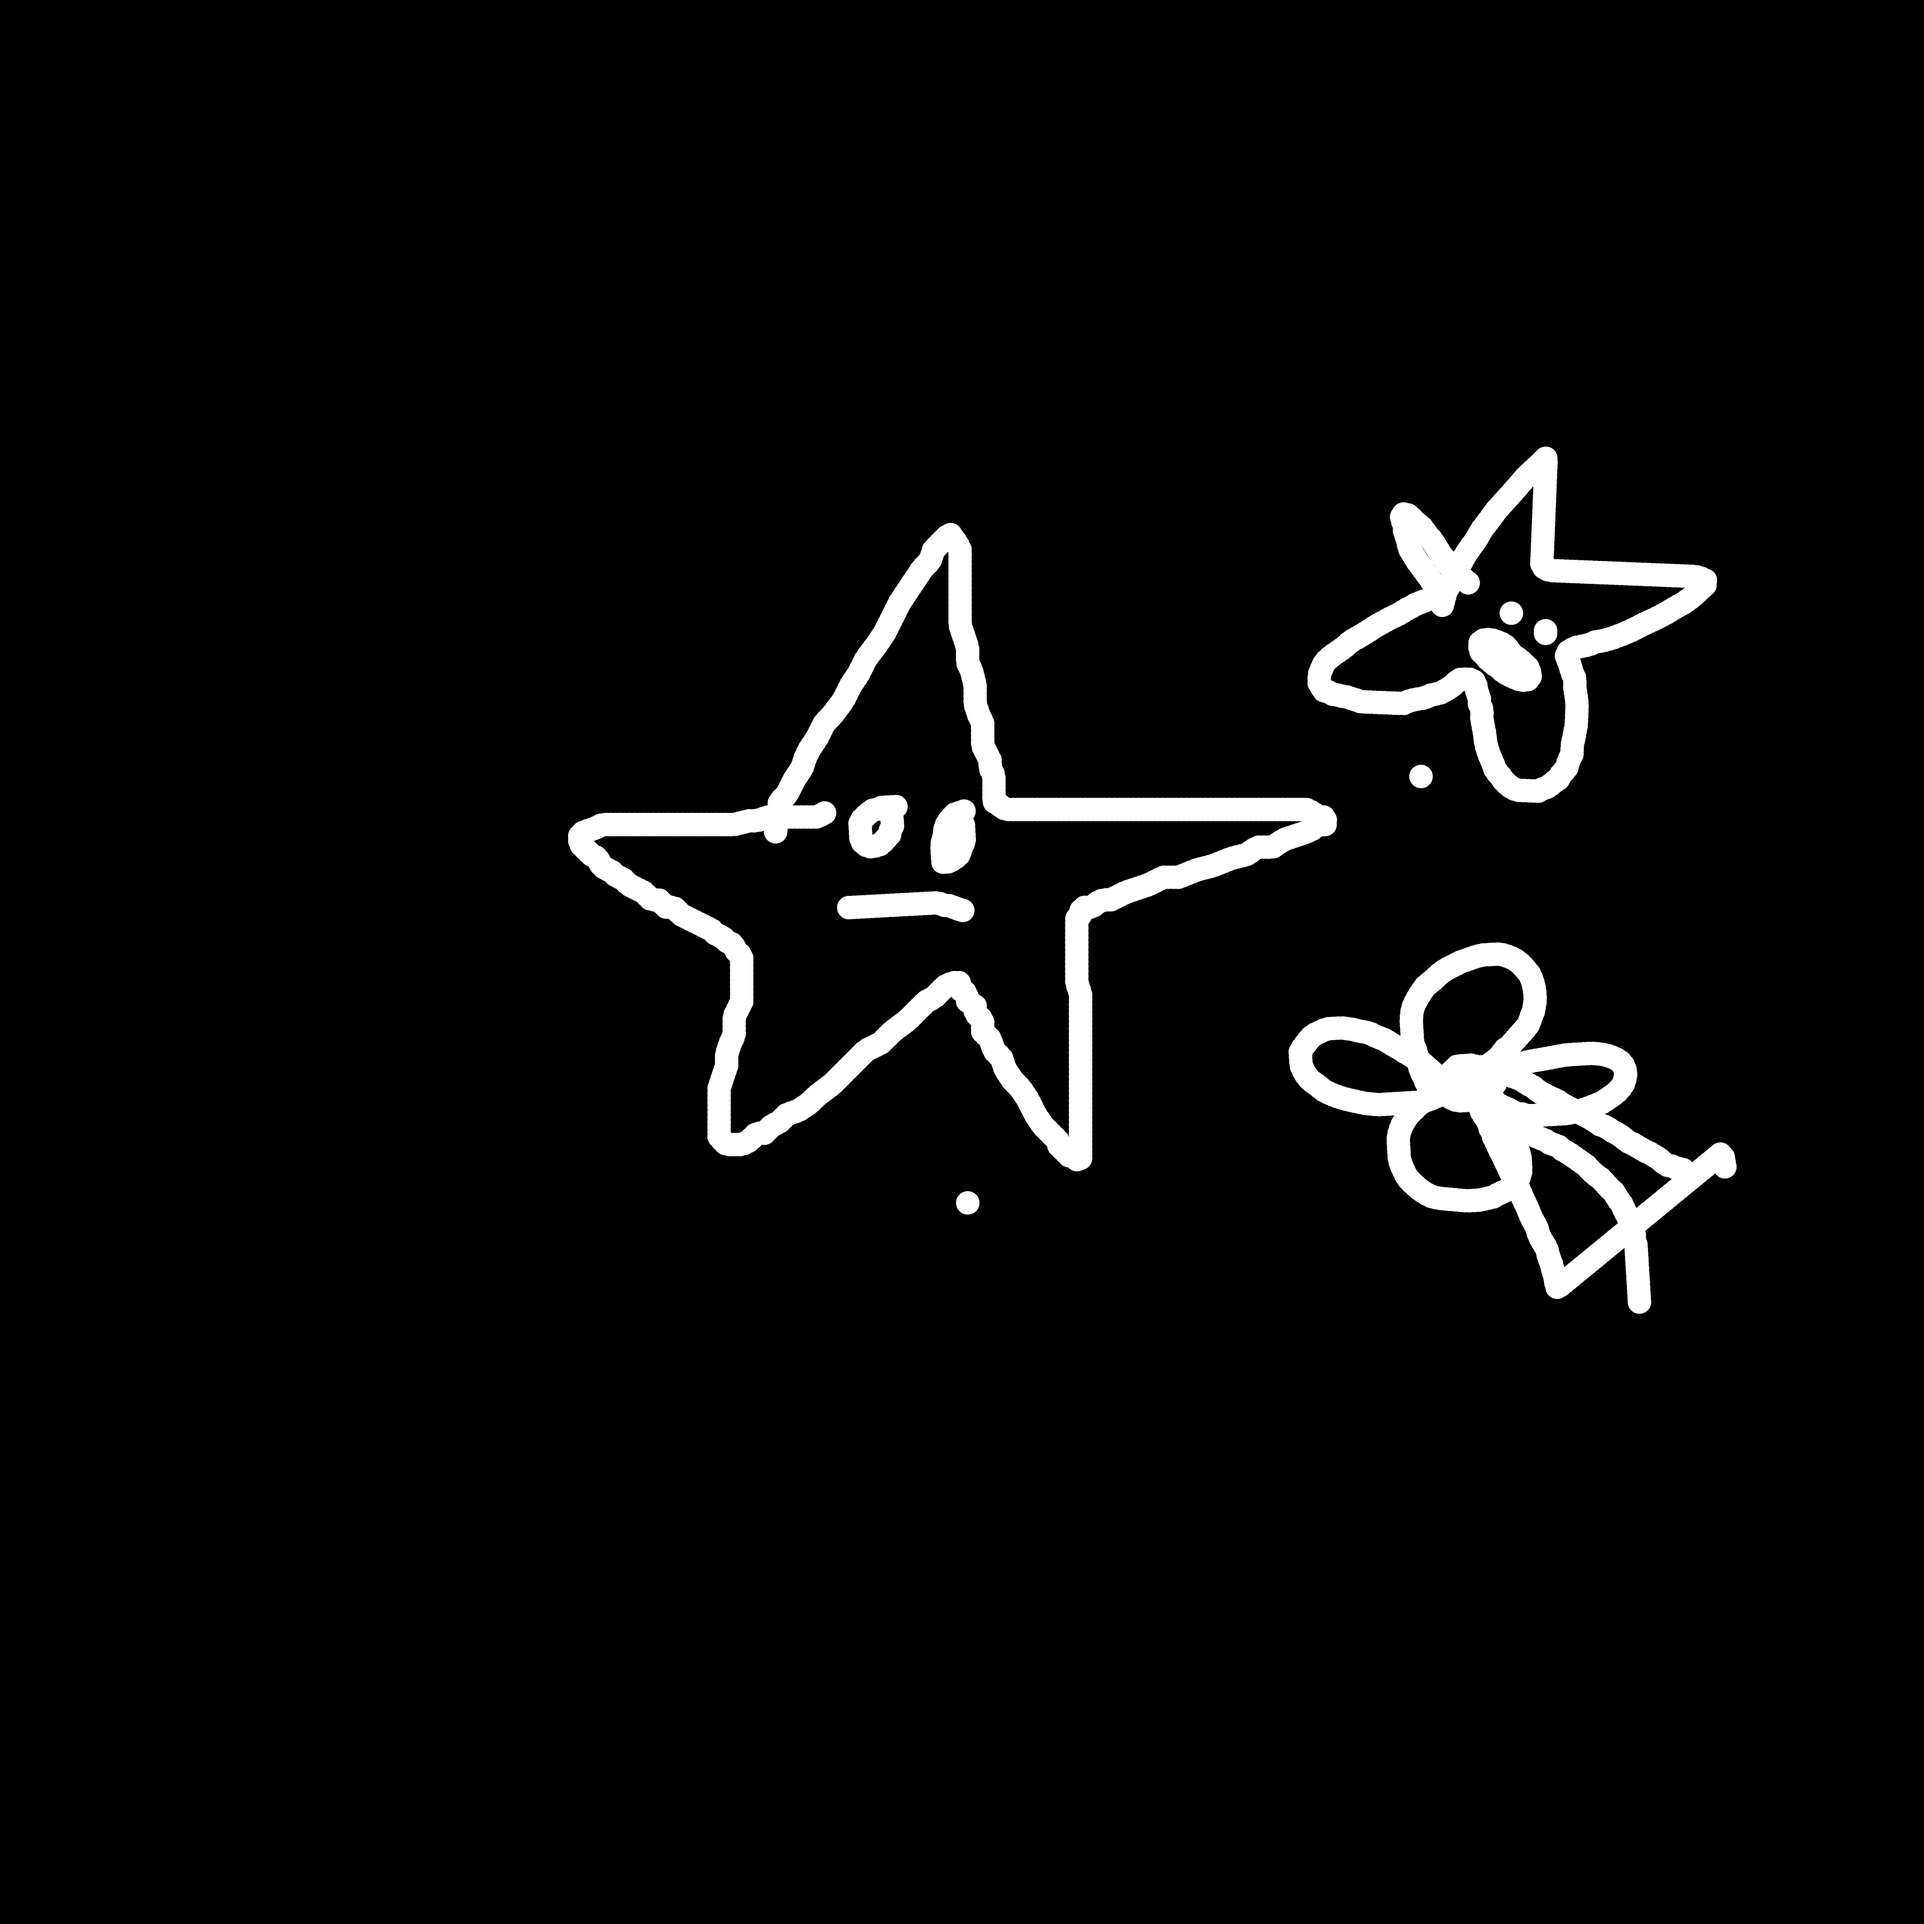
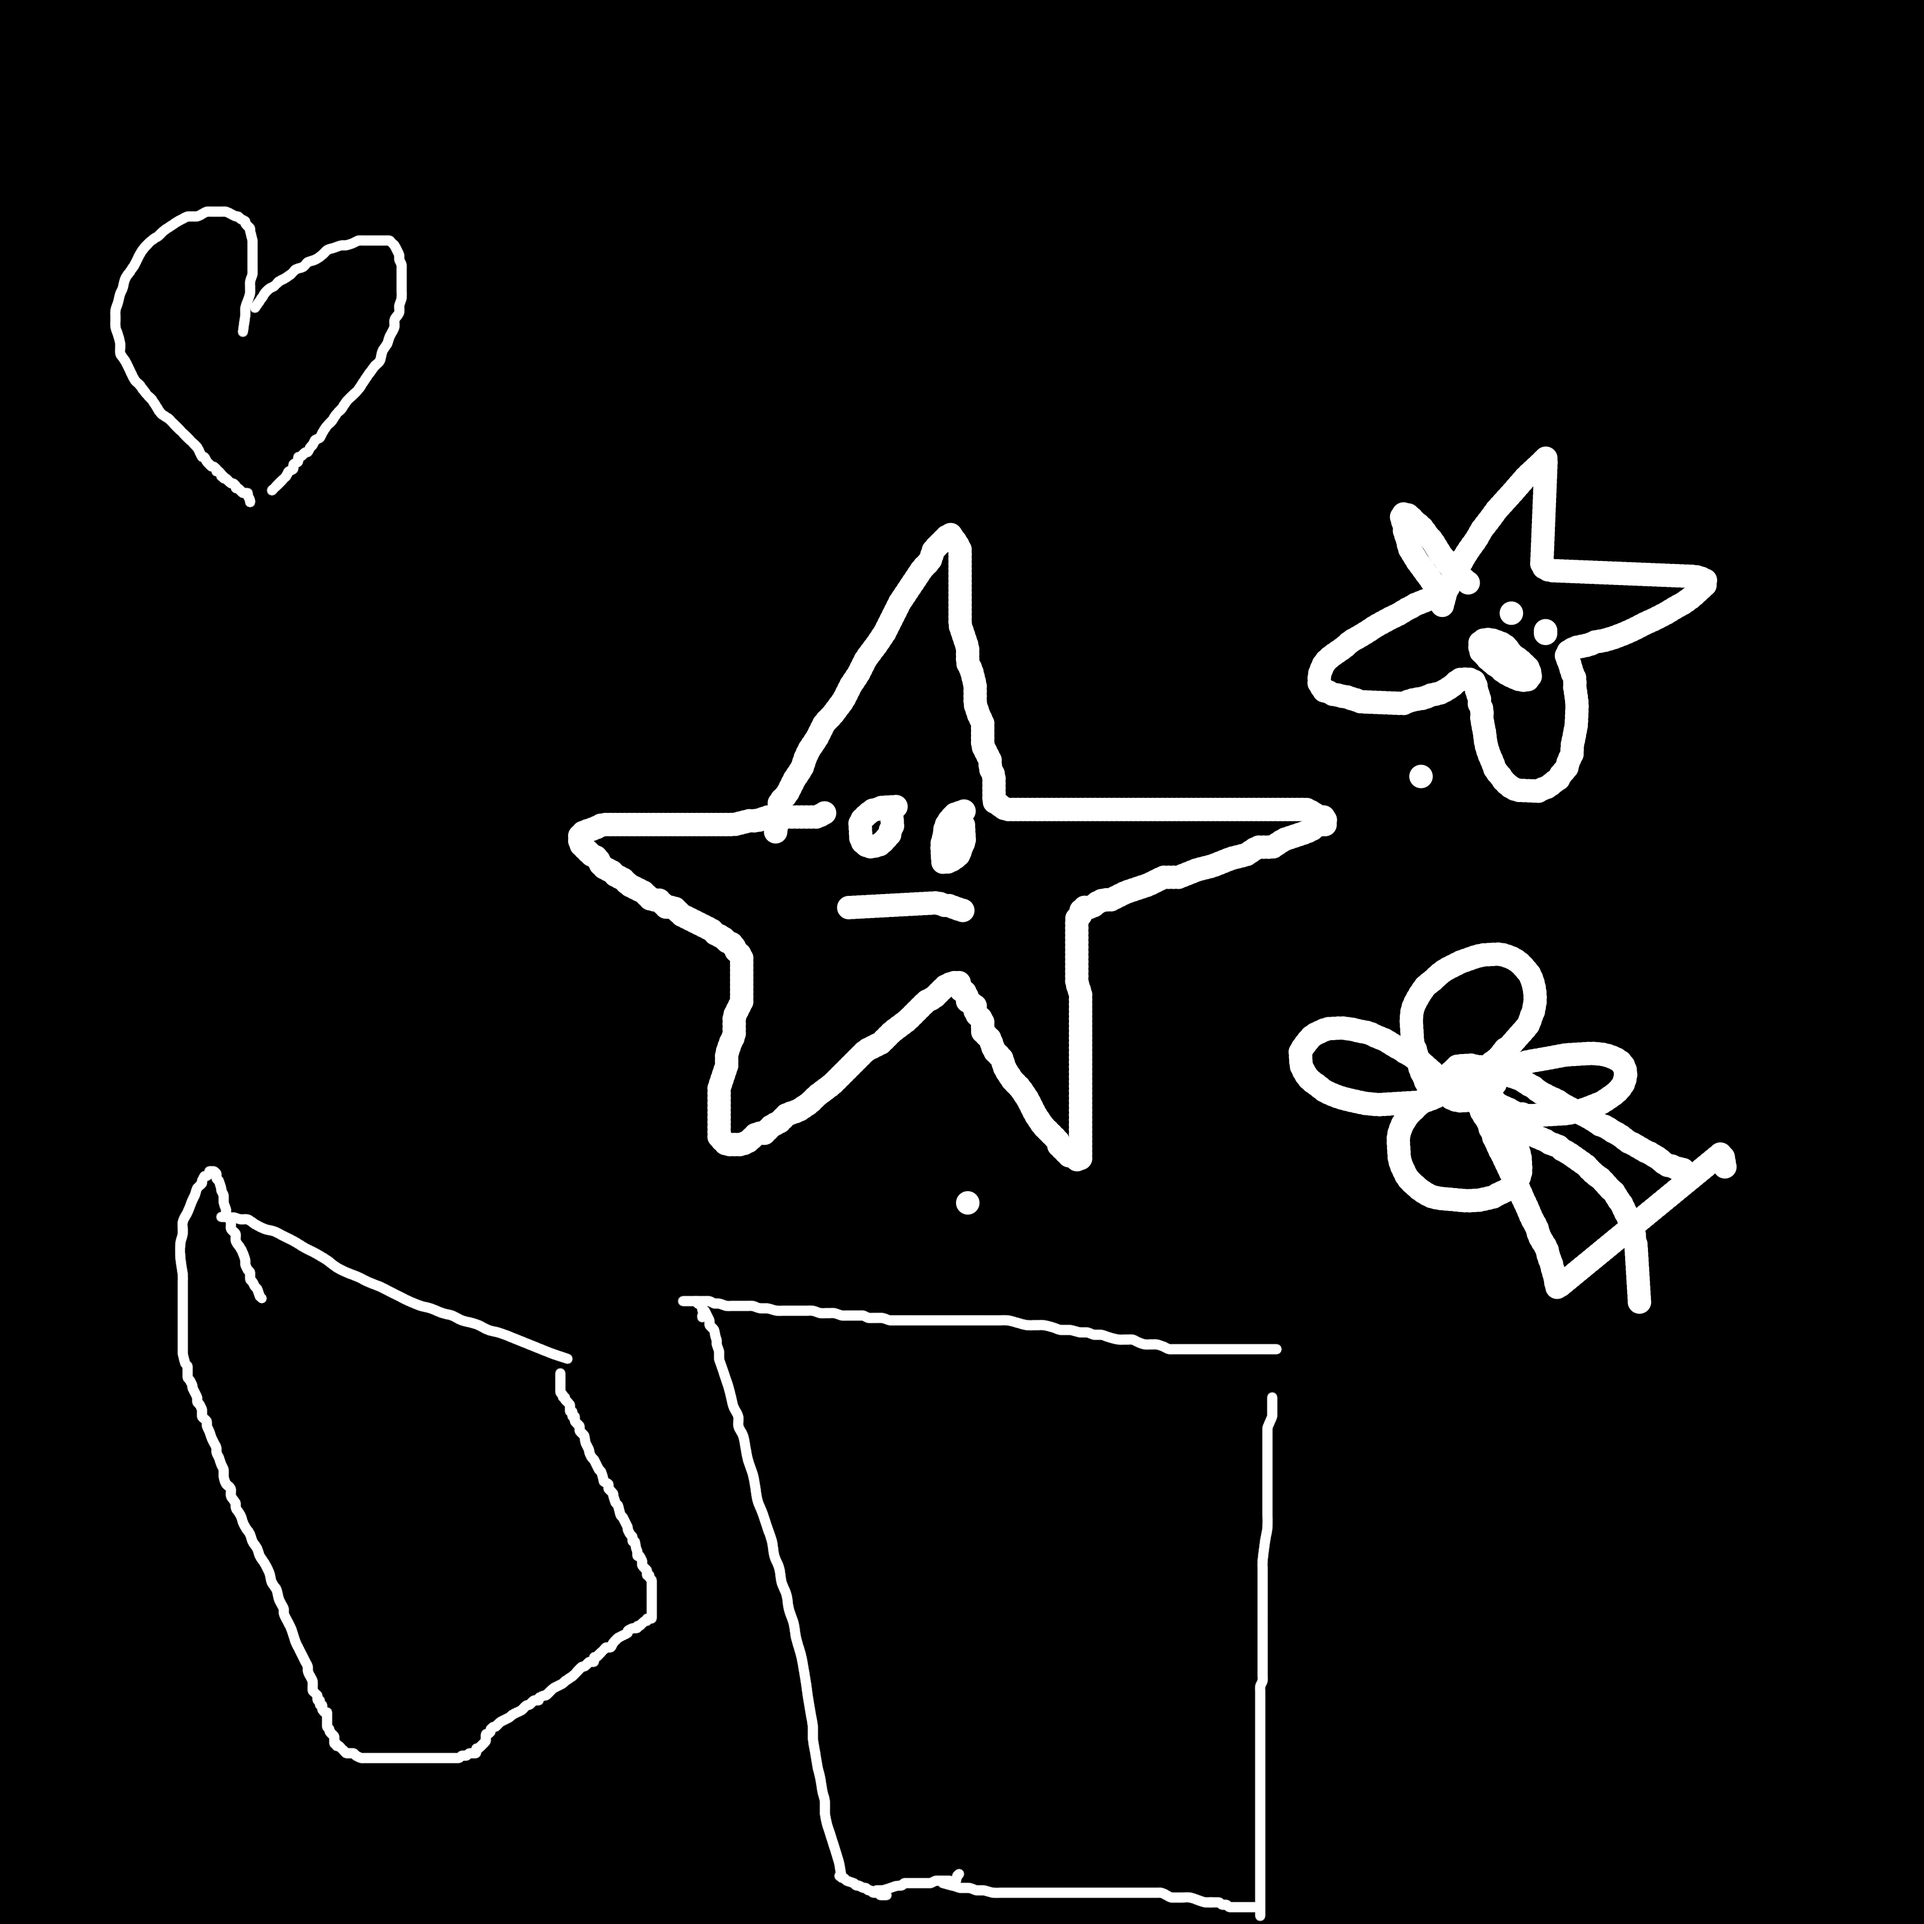
feat: rgb and grayscale works

diff --git a/src/check_colors.rs b/src/check_colors.rs
@@ -4,15 +4,18 @@ use bke_ccl::*;
 use flume::bounded;
 use std::iter;
 use image::{ImageBuffer, RgbaImage};
+use wgpu::{Buffer, util::{BufferInitDescriptor, DeviceExt}};
 
 pub struct CheckColors {
-    texture_bundle: texture::TextureUInt,
+    input_buffer: Buffer,
+    width: u32,
+    height: u32,
     device: wgpu::Device,
     queue: wgpu::Queue,
 }
 
 impl CheckColors {
-    pub async fn new(image_bytes:&[u8] ) -> anyhow::Result<CheckColors> {
+    pub async fn new(image_bytes:&[u32], width:u32, height:u32 ) -> anyhow::Result<CheckColors> {
         // The instance is a handle to our GPU
         // BackendBit::PRIMARY => Vulkan + Metal + DX12 + Browser WebGPU
         let instance = wgpu::Instance::new(&wgpu::InstanceDescriptor {
@@ -27,11 +30,16 @@ impl CheckColors {
 
         let (device, queue) = adapter.request_device(&Default::default()).await.unwrap();
 
-        let texture_bundle =
-            texture::TextureUInt::from_bytes(&device, &queue, image_bytes, "in_texture").unwrap();
+        let input_buffer = device.create_buffer_init(&BufferInitDescriptor {
+            label: Some("input"),
+            contents: bytemuck::cast_slice(&image_bytes),
+            usage: wgpu::BufferUsages::COPY_DST | wgpu::BufferUsages::STORAGE,
+        });
 
         Ok(Self {
-            texture_bundle,
+            input_buffer,
+            width,
+            height,
             device,
             queue,
         })
@@ -43,7 +51,7 @@ impl CheckColors {
             .create_command_encoder(&wgpu::CommandEncoderDescriptor {
                 label: Some("Render Encoder"),
             });
-        let ccl = CCLState::new(&self.device, &self.queue, &self.texture_bundle).unwrap();
+        let ccl = CCLState::new(&self.device, &self.queue, &self.input_buffer, self.width, self.height).unwrap();
         let output_buffer = ccl.compute(&mut encoder)?;
         self.queue.submit(iter::once(encoder.finish()));
         self.check_colors(&output_buffer).await?;
@@ -51,23 +59,10 @@ impl CheckColors {
         Ok(())
     }
 
-    fn get_num_bytes_storage(&self) -> anyhow::Result<u64> {
-        let texture_size = self.texture_bundle.texture.size();
-        let width = texture_size.width;
-        let height = texture_size.height;
-        let num_pixels = width as u64 * height as u64;
-        let num_bytes_storage = num_pixels
-            .checked_mul(4)
-            .expect("The image was too big to create a storage buffer");
-        Ok(num_bytes_storage)
-    }
-
-
     async fn check_colors(&self, output_buffer: &wgpu::Buffer ) -> anyhow::Result<()> {
-        let num_bytes_storage = self.get_num_bytes_storage().unwrap();
         let temp_buffer = self.device.create_buffer(&wgpu::BufferDescriptor {
             label: Some("temp"),
-            size: num_bytes_storage,
+            size: self.input_buffer.size(),
             usage: wgpu::BufferUsages::COPY_DST | wgpu::BufferUsages::MAP_READ,
             mapped_at_creation: false,
         });
@@ -100,15 +95,23 @@ impl CheckColors {
 
             // Now we have the data on the CPU we can do what ever we want to with it
             let output_data = bytemuck::cast_slice::<_, u32>(&output_buffer_view);
+            println!("{:?}", output_data.len());
 
             // using f64 to accomodate the bigger u32 range
-            let normalized = 255.0 / self.texture_bundle.texture.size().width as f64 / self.texture_bundle.texture.size().height as f64;
+            // 255 / (width*height) would be normalized
+            // 254 will not create any 0 values for last label
+            let normalized = 254.0 / self.width as f64 / self.height as f64;
             let mut rgba_data = Vec::with_capacity(output_data.len() * 4);
             for &label in output_data {
                 // grey scale
-                let r = (label as f64 * normalized) as u8;
-                let g = (label as f64 * normalized) as u8;
-                let b = (label as f64 * normalized) as u8;
+                let mut val = 255u8 - ((label as f64 * normalized) as u8);
+                if label == 0 {
+                    val = 0
+                }
+
+                let r = val;
+                let g = val;
+                let b = val;
                 let a = 255u8; 
 
                 rgba_data.push(r); 
@@ -116,7 +119,7 @@ impl CheckColors {
                 rgba_data.push(b);
                 rgba_data.push(a);
             }
-            let img: RgbaImage = ImageBuffer::from_raw(256, 256, rgba_data).unwrap();
+            let img: RgbaImage = ImageBuffer::from_raw(self.width, self.height, rgba_data).unwrap();
 
             // Save the image
             img.save("output.png")?;

diff --git a/src/buffer_png.rs b/src/buffer_png.rs
@@ -1,0 +1,84 @@
+// TODO output buffer ist _viel_ größer
+use std::fs::File;
+use std::io::BufReader;
+use png::{Decoder, ColorType, BitDepth};
+
+pub struct BufferBundle {
+    pub buffer: Vec<u32>,
+    pub width: u32,
+    pub height: u32,
+}
+pub fn decode(path: &str) -> BufferBundle {
+    let decoder = png::Decoder::new(BufReader::new(File::open(path).unwrap()));
+    let mut reader = decoder.read_info().unwrap();
+
+    // Allocate the output buffer.
+    let mut buffer = vec![0; reader.output_buffer_size().unwrap()];
+
+    // Read the next frame. An APNG might contain multiple frames.
+    let info = reader.next_frame(&mut buffer).unwrap();
+    let width = info.width;
+    let height = info.height;
+
+    // Grab the bytes of the image.
+    buffer.truncate(info.buffer_size());
+
+    // let bytes = &buffer[..info.buffer_size()];
+    println!("len: {:?}, width: {:?}, height: {:?}, info: {:?}", buffer.len(), info.width, info.height, info);
+
+     let buffer: Vec<u32> = match info.color_type {
+        ColorType::Rgba => {
+            println!("RGBA");
+            // Combine 4 u8s (RGBA) into a single u32 for each pixel
+            buffer.chunks_exact(4)
+                .map(|chunk| {
+                    (chunk[0] as u32) << 24 | // Red
+                    (chunk[1] as u32) << 16 | // Green
+                    (chunk[2] as u32) << 8  | // Blue
+                    (chunk[3] as u32)        // Alpha
+                })
+                .collect()
+        }
+        ColorType::Rgb => {
+            // Combine 3 u8s (RGB) into a single u32 for each pixel (0xRRGGBB)
+            println!("RGB");
+            buffer.chunks_exact(3)
+                .map(|chunk| {
+                    (chunk[0] as u32) << 16 | // Red
+                    (chunk[1] as u32) << 8  | // Green
+                    (chunk[2] as u32)        // Blue
+                })
+                .collect()
+        }
+        ColorType::Grayscale => {
+
+            if info.bit_depth == BitDepth::One {
+                let byte_width = (info.width + 7) / 8; // Each row is padded to the nearest whole byte
+                let mut unpacked_pixels = Vec::with_capacity((info.width * height) as usize);
+                // Treat each pixel (1-byte grayscale) as a 32-bit scalar (0x00G000FF)
+                for row in 0..height {
+                    let row_start = (row * byte_width) as usize;
+                    for col in 0..info.width {
+                        // Extract the bit corresponding to the current column
+                        let byte = buffer[row_start + (col / 8) as usize];
+                        let bit = 7 - (col % 8); // Bit position within the byte (MSB to LSB)
+                        let value = ((byte >> bit) & 1) as u32; // Extract the bit as 0 or 1
+                        unpacked_pixels.push(value);
+                    }
+                }
+                unpacked_pixels
+            } else {
+                buffer.iter()
+                    .map(|&gray| gray as u32)
+                    .collect()
+            }
+        }
+        _ => panic!("Unsupported color type for u32 conversion."),
+    };
+    println!("{:?}", buffer.len());
+    return BufferBundle {
+        buffer,
+        width,
+        height,
+    };
+}

diff --git a/src/main.rs b/src/main.rs
@@ -1,16 +1,19 @@
 use pollster::FutureExt;
 
-// mod check_colors;
-// use check_colors::CheckColors;
+mod buffer_png;
+use buffer_png::{BufferBundle, decode};
+
+mod check_colors;
+use check_colors::CheckColors;
 
 mod check_array;
 use check_array::CheckArrays;
 
 fn main() -> anyhow::Result<()> {
     env_logger::init();
-    // let image_bytes = include_bytes!("./test.png");
-    // let state = CheckColors::new(image_bytes).block_on()?;
-    let state = CheckArrays::new().block_on()?;
+    let BufferBundle{buffer, width, height} = decode("./src/test_medium.png");
+    let state = CheckColors::new(&buffer[..buffer.len()], width, height).block_on()?;
+    // let state = CheckArrays::new().block_on()?;
     state.compute().block_on()?;
 
     Ok(())

diff --git a/src/check_array.rs b/src/check_array.rs
@@ -1,10 +1,3 @@
-// Es scheint Felder als parent auszugeben, die keine parents sein können
-// beim 2. hat er 12 angegeben... was richtig ist. Aber das label feld wurde mit 0 überschrieben
-// also dachte er beim 2. block, dass es einen parent nach links gab. WAS DER FALL IST!
-// boa... Aber beim 3. gab es auch einen parent nach links? Hier ist er bei 4 geblieben
-// das heißt er hat mit s1 und s2 noch schwierigkeiten -> check :)
-// das Feld, was komplett umzingelt ist, braucht auch 239, weil P (16) nicht gesetzt wird.
-// Das letzte Feld ist 55, weil es das label vom oberen linken feld im Block bekommt.
 use bke_ccl::*;
 use flume::bounded;
 use std::iter;
